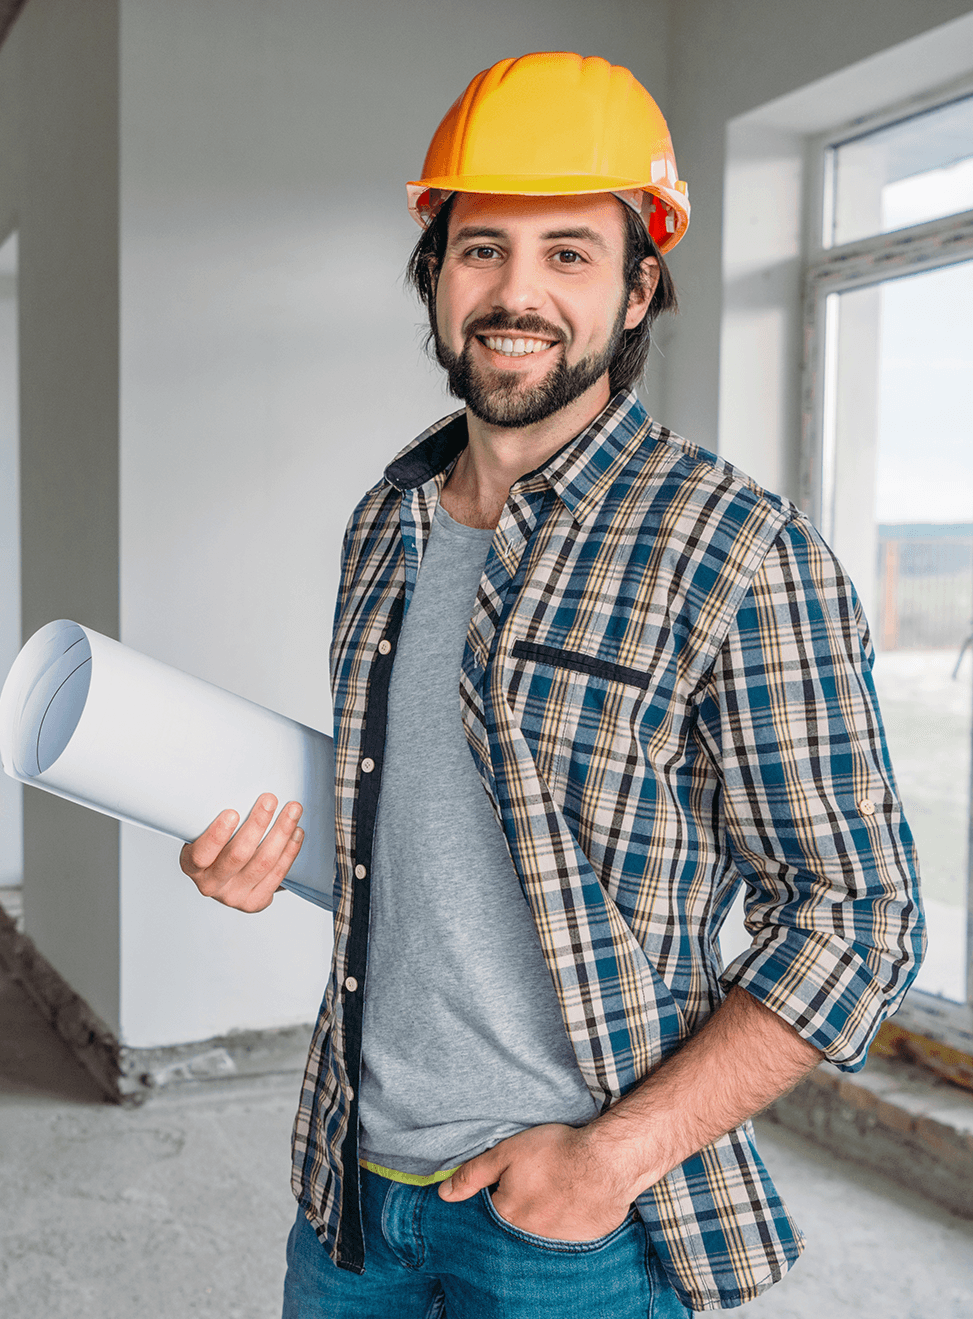
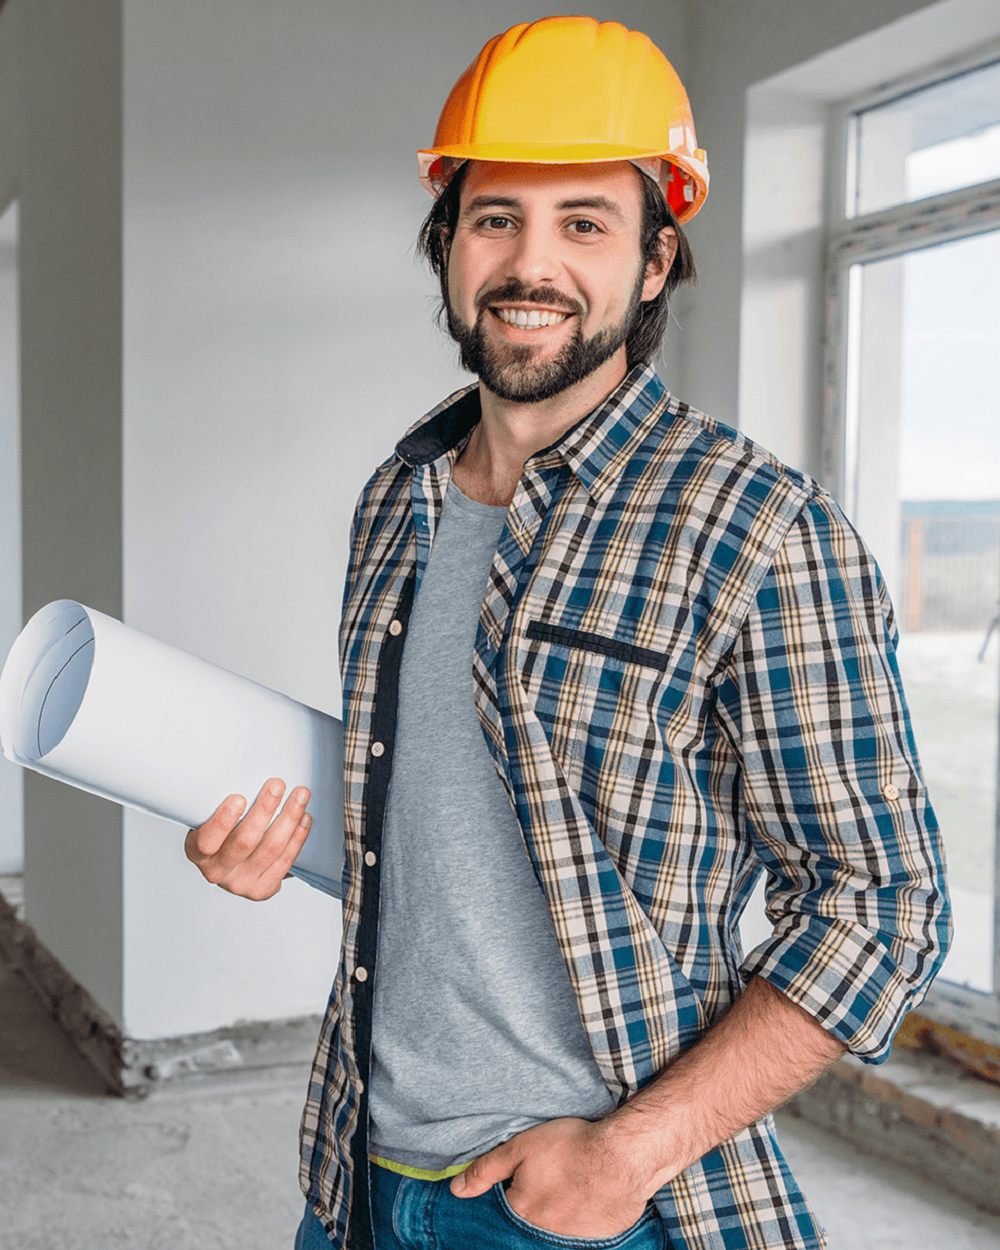
Added adaptive markup 'main-team'

diff --git a/css/main-team.css b/css/main-team.css
@@ -16,10 +16,6 @@
   width: 100%;
 }
 
-/* .team-title {
-  max-width: 540px;
-} */
-
 .team-title h2 {
   margin-bottom: 25px;
 }
@@ -66,10 +62,6 @@ h4 {
   margin: 10px;
 }
 
-.vacancies-content h4 {
-  /* max-width: 110px; */
-}
-
 .vacancies-content h4,
 .personal-card h4 {
   font-size: 22px;
@@ -103,11 +95,10 @@ h4 {
 
 .personal-card img {
   max-width: 100%;
-  max-height: 365px;
+  object-fit: cover;
 }
 
 .personal-card {
-  max-width: 295px;
   margin-top: 45px;
 }
 
@@ -193,5 +184,79 @@ h4 {
   transition: all 0.2s ease-in;
 }
 
-@media (min-width: 320px) {
+@media (min-width: 768px) {
+  .main__team-container {
+    padding: 0 15px;
+  }
+  .title-container {
+    flex-direction: row;
+    align-items: flex-start;
+    justify-content: space-between;
+  }
+  .team-title {
+    padding: 0 15px;
+    max-width: 420px;
+  }
+  .team-title h2 {
+    font-size: 41px;
+  }
+  .team-vacancies {
+    min-width: 300px;
+    margin-top: 0;
+    flex-direction: column;
+    align-items: flex-start;
+  }
+  .vacancies-logo {
+    max-width: 140px;
+    padding: 10px;
+  }
+  .personal-card {
+    padding: 0 15px;
+    margin: 0;
+    max-width: 100%;
+  }
+  .team-cards-container {
+    grid-gap: 10px;
+    grid-template-columns: 1fr 1fr;
+    margin-top: 45px;
+  }
+  .main__team-information-request {
+    display: grid;
+    grid-template-columns: 2fr 1fr;
+    align-items: center;
+    min-height: 150px;
+  }
+  .information-request-title {
+    padding: 0;
+    margin: 0;
+    font-size: 34px;
+  }
+}
+
+@media (min-width: 990px) {
+  .team-title {
+    max-width: 570px;
+  }
+  .team-title h2 {
+    font-size: 48px;
+  }
+  .team-vacancies {
+    flex-direction: row;
+  }
+  .vacancies-content h4,
+  .personal-card h4 {
+    font-size: 25px;
+  }
+  .team-cards-container {
+    grid-template-columns: 1fr 1fr 1fr;
+  }
+  .information-request-title {
+    font-size: 38px;
+  }
+}
+
+@media (min-width: 1200px) {
+  .team-title {
+    max-width: 600px;
+  }
 }
